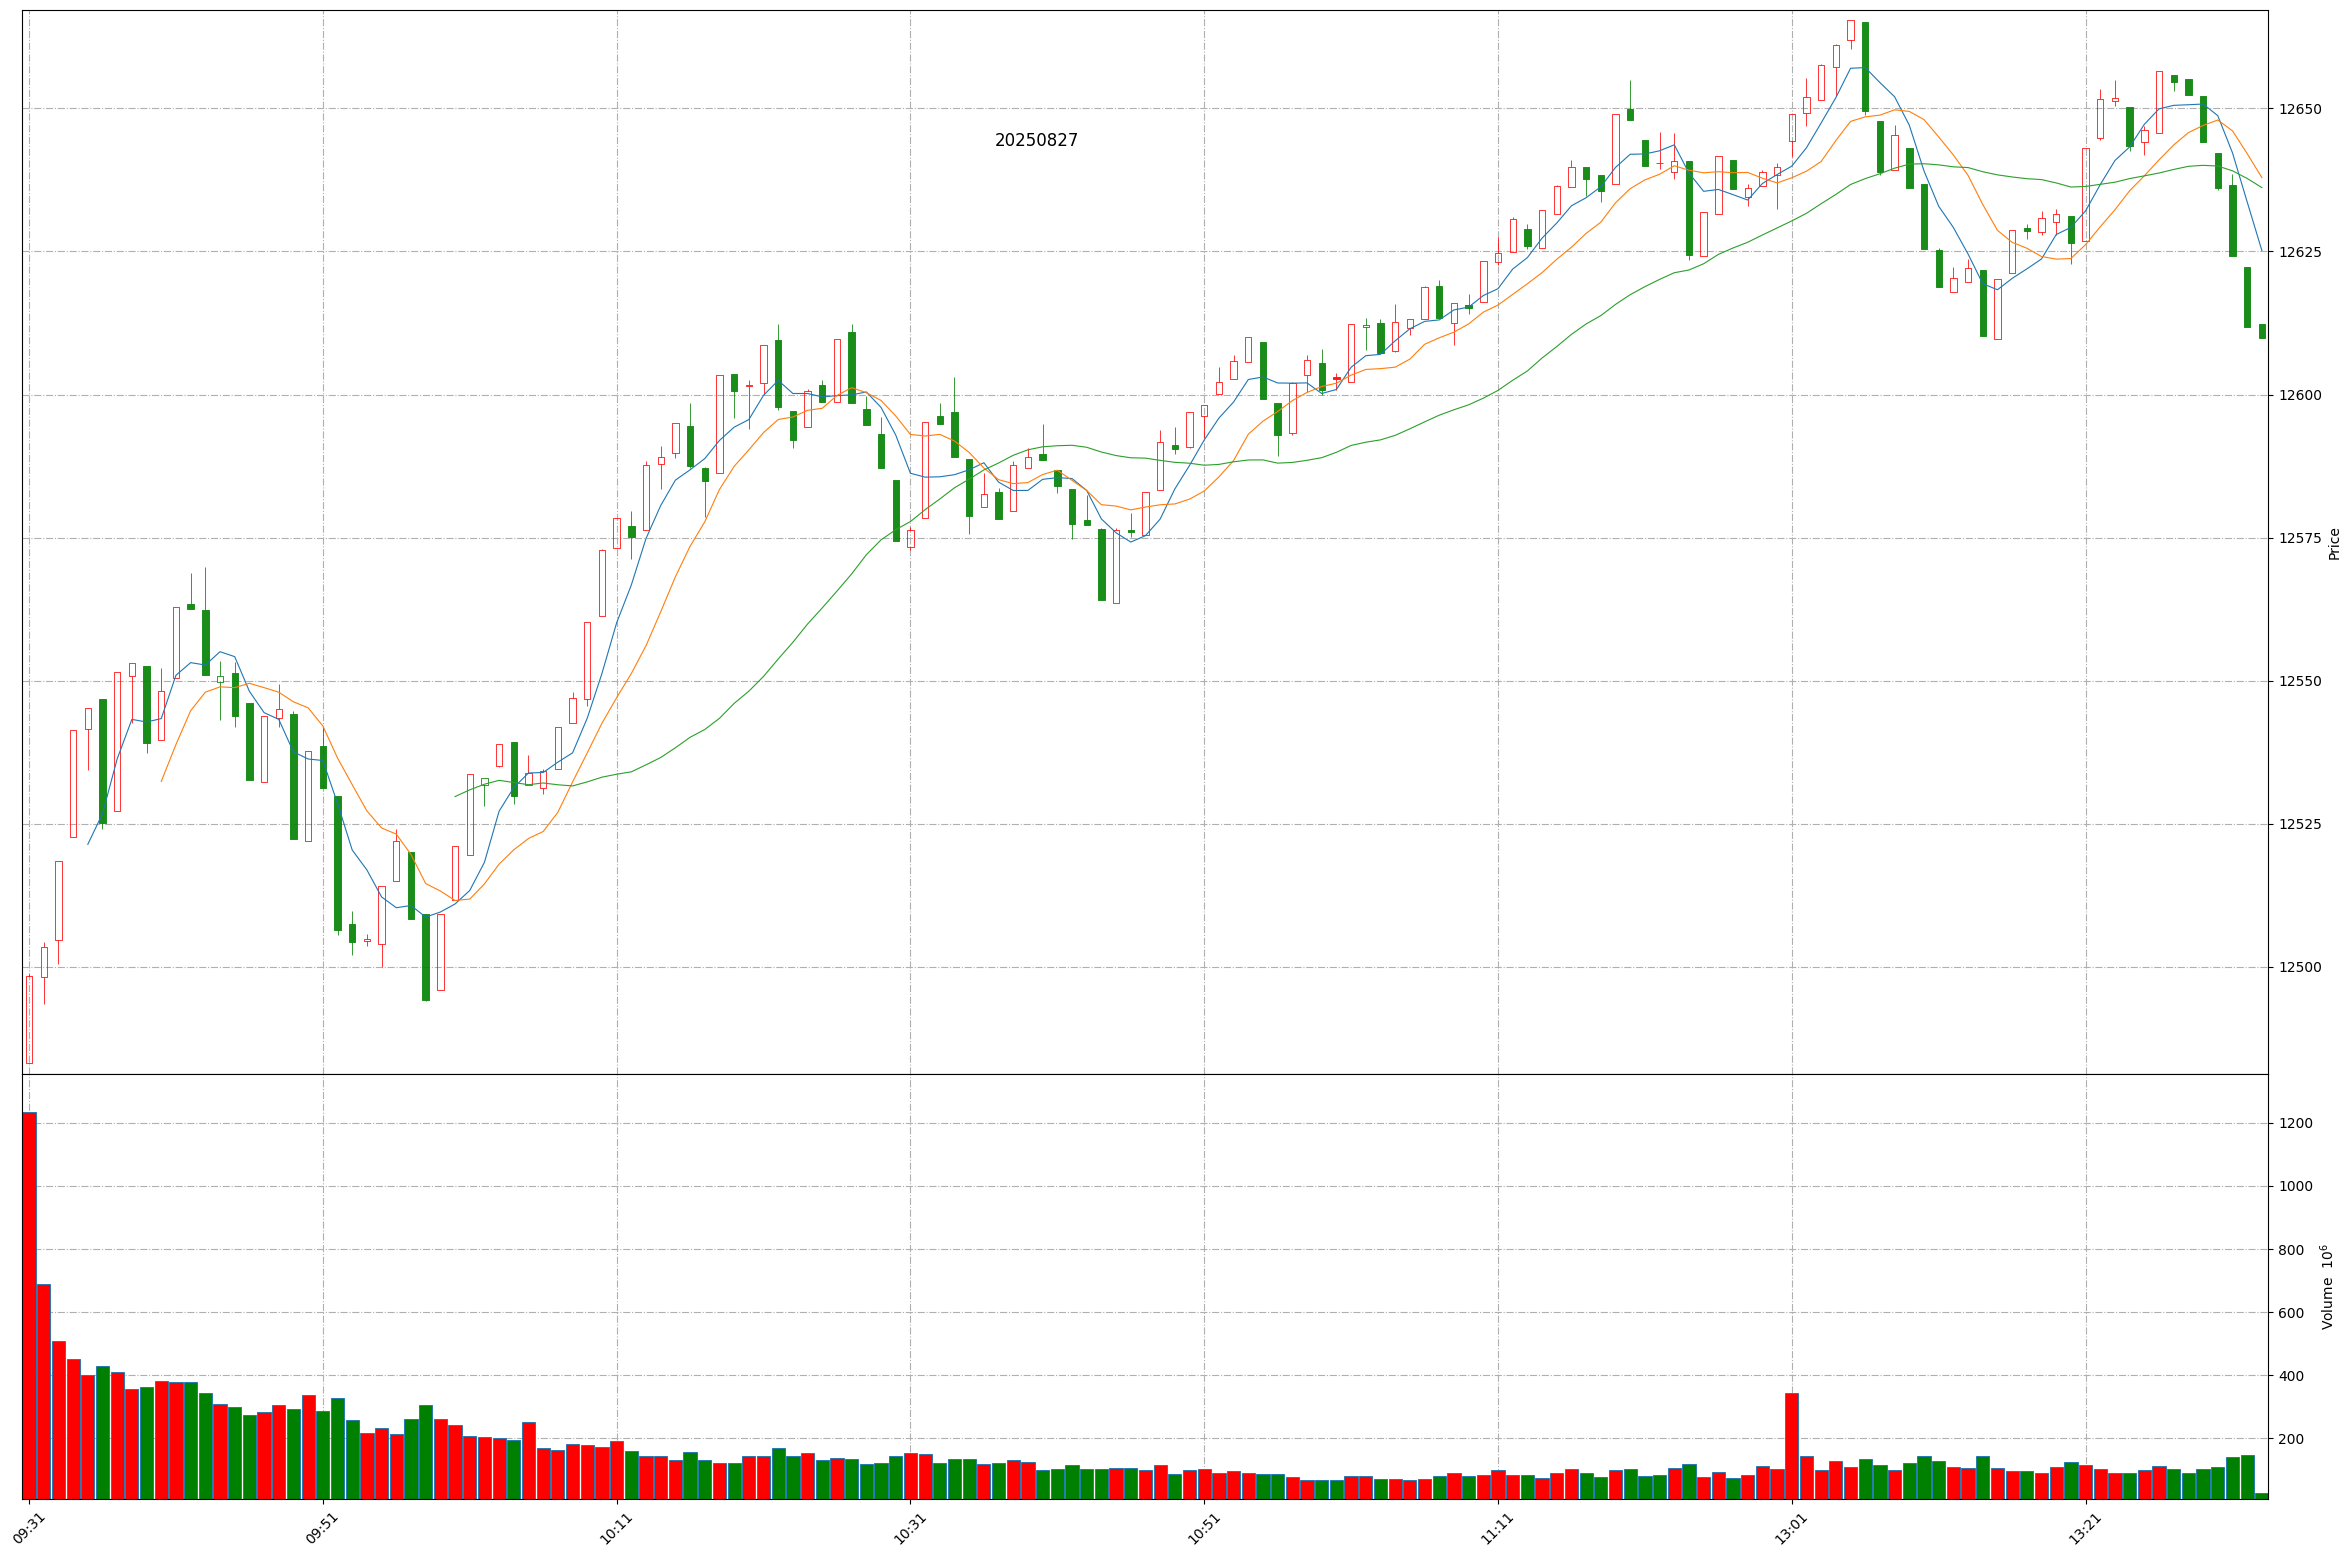
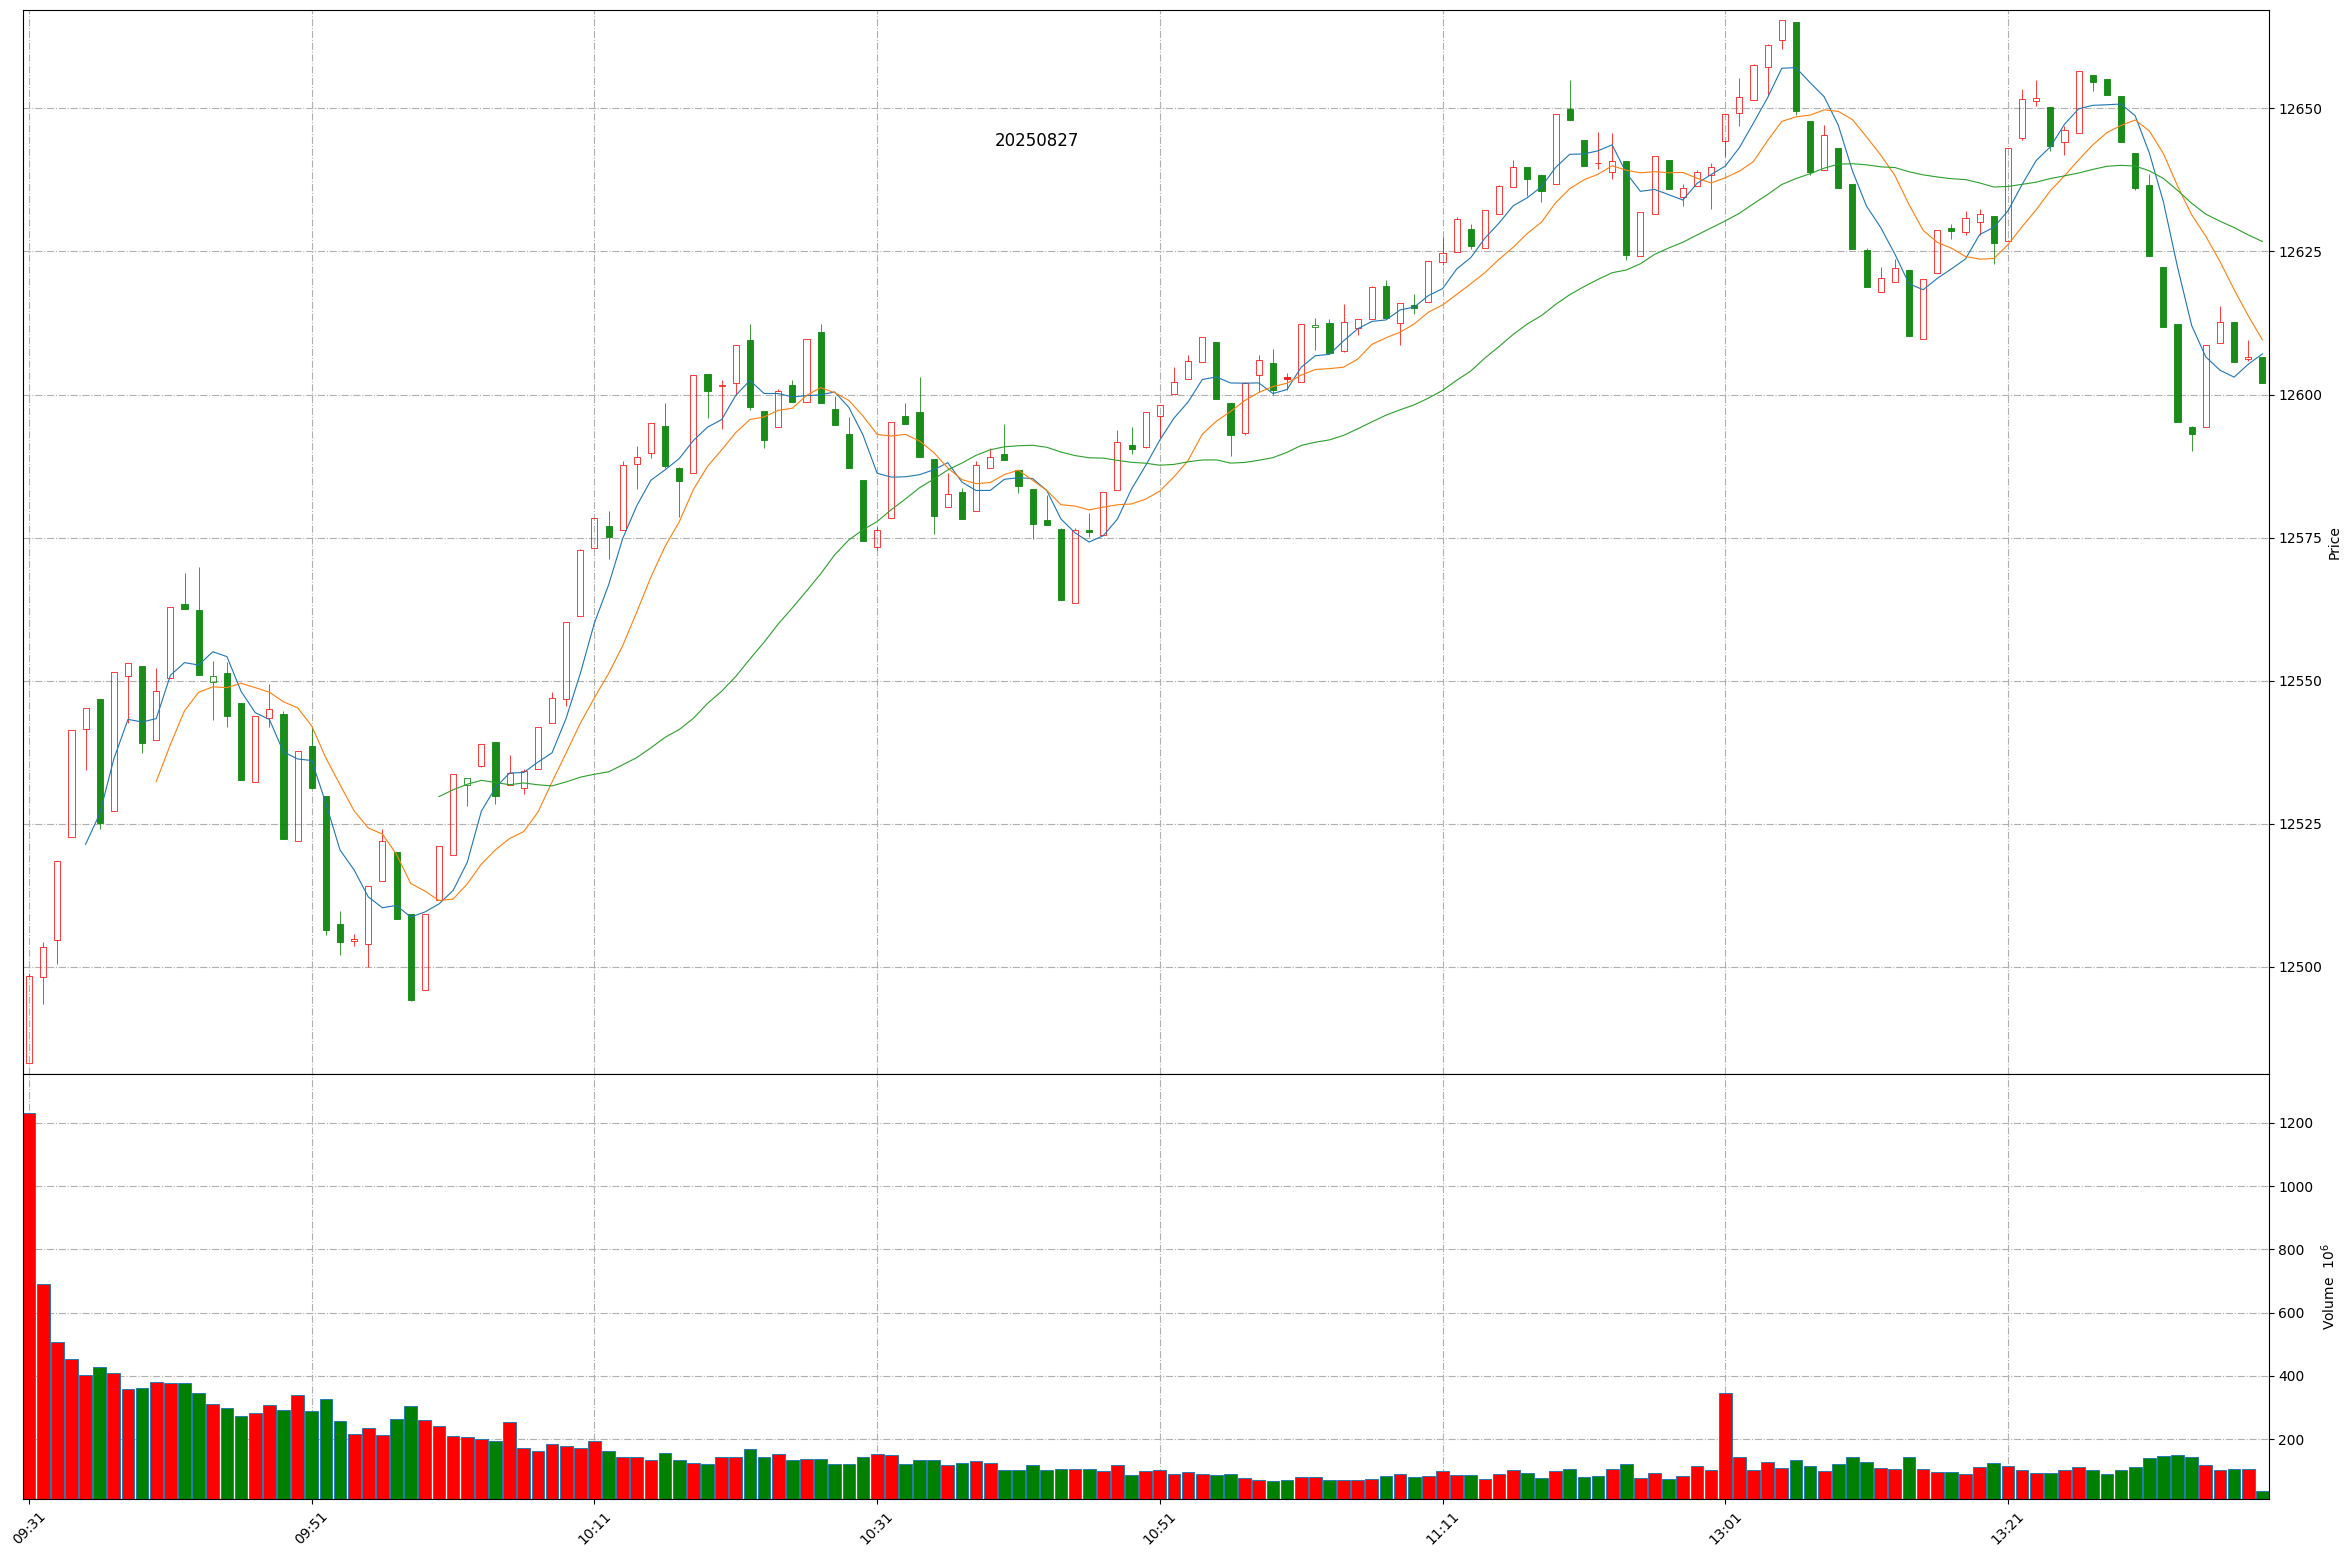
Github action update at 2025-08-27 13:38:24.

Changed region(s): [[0.2484, 0.0308, 0.9626, 0.4624], [0.0, 0.8632, 0.9626, 0.9865], [0.0311, 0.3699, 0.2484, 0.6474]]

diff --git a/README.md b/README.md
@@ -1,11 +1,11 @@
 
 # Daily-A-share-market-quotes 每日 A 股指数（5min 更新）- 20250827
 
-### 上证指数 20250827 13:32
+### 上证指数 20250827 13:38
 ![](./fig/2025/8/20250827-sh000001.png)
 
-### 深证成指 20250827 13:32
+### 深证成指 20250827 13:38
 ![](./fig/2025/8/20250827-sz399001.png)
 
-### 北证50 20250827 13:32
+### 北证50 20250827 13:38
 ![](./fig/2025/8/20250827-bj899050.png)
